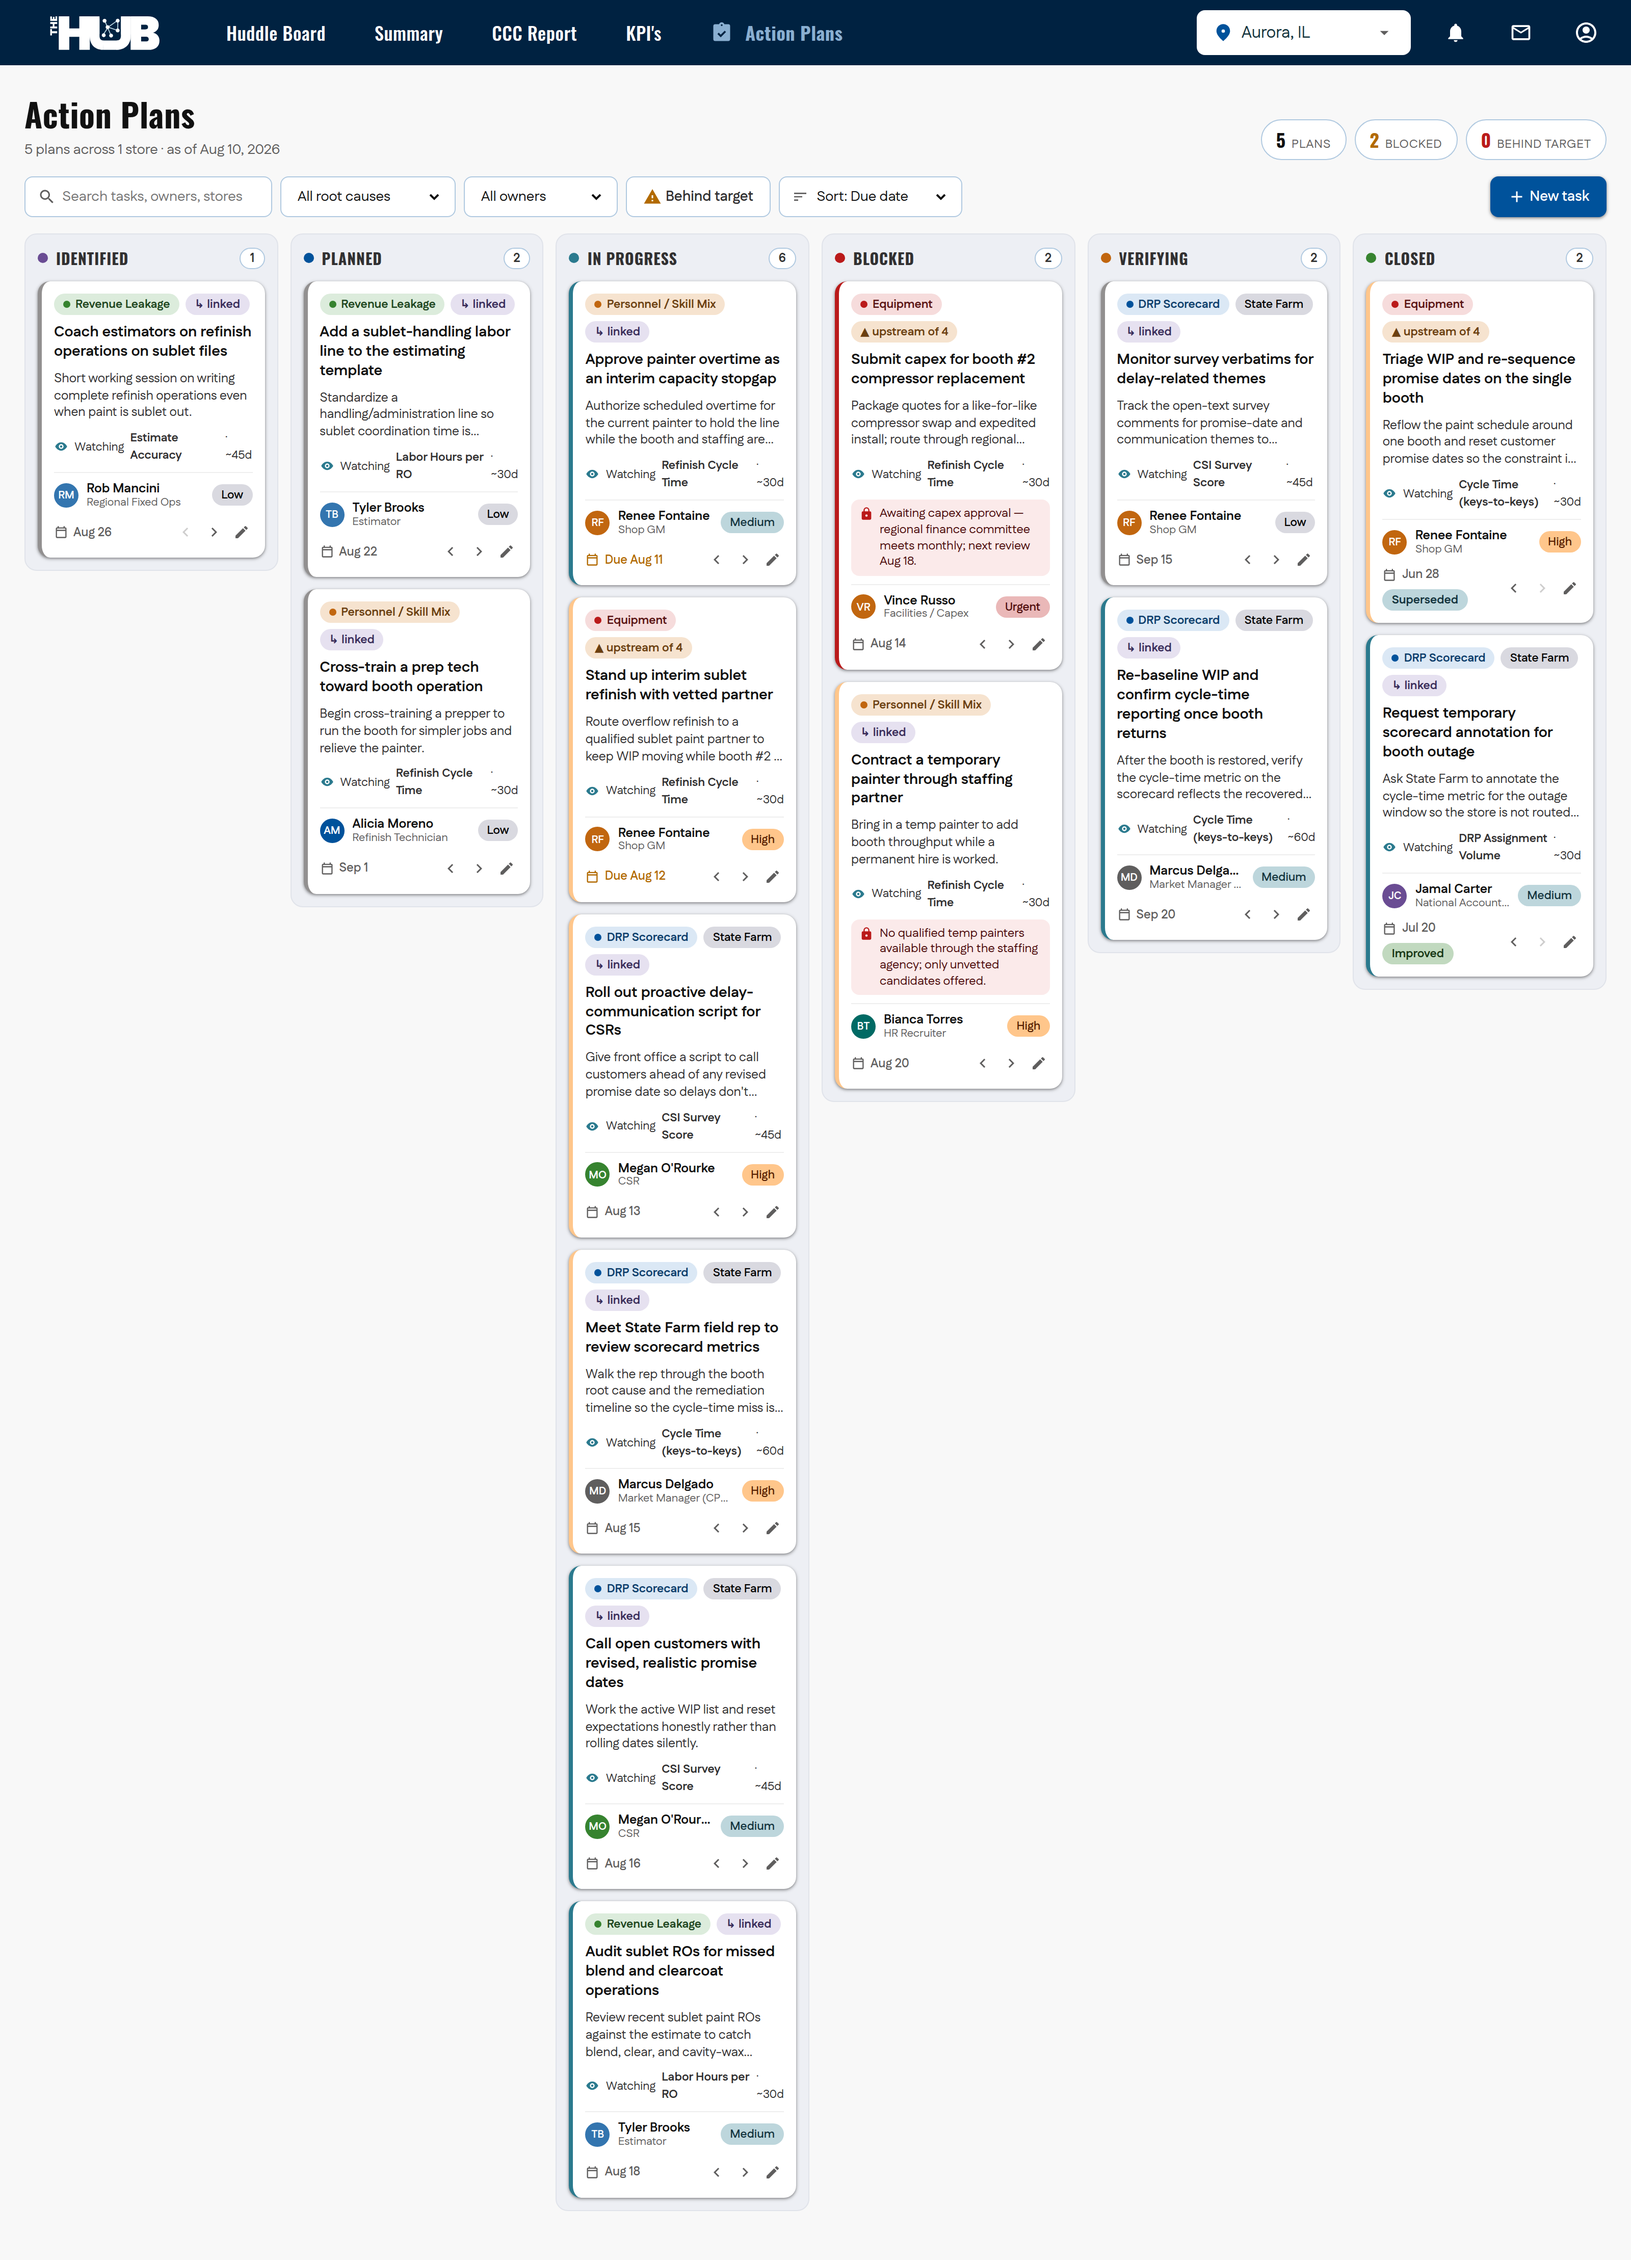
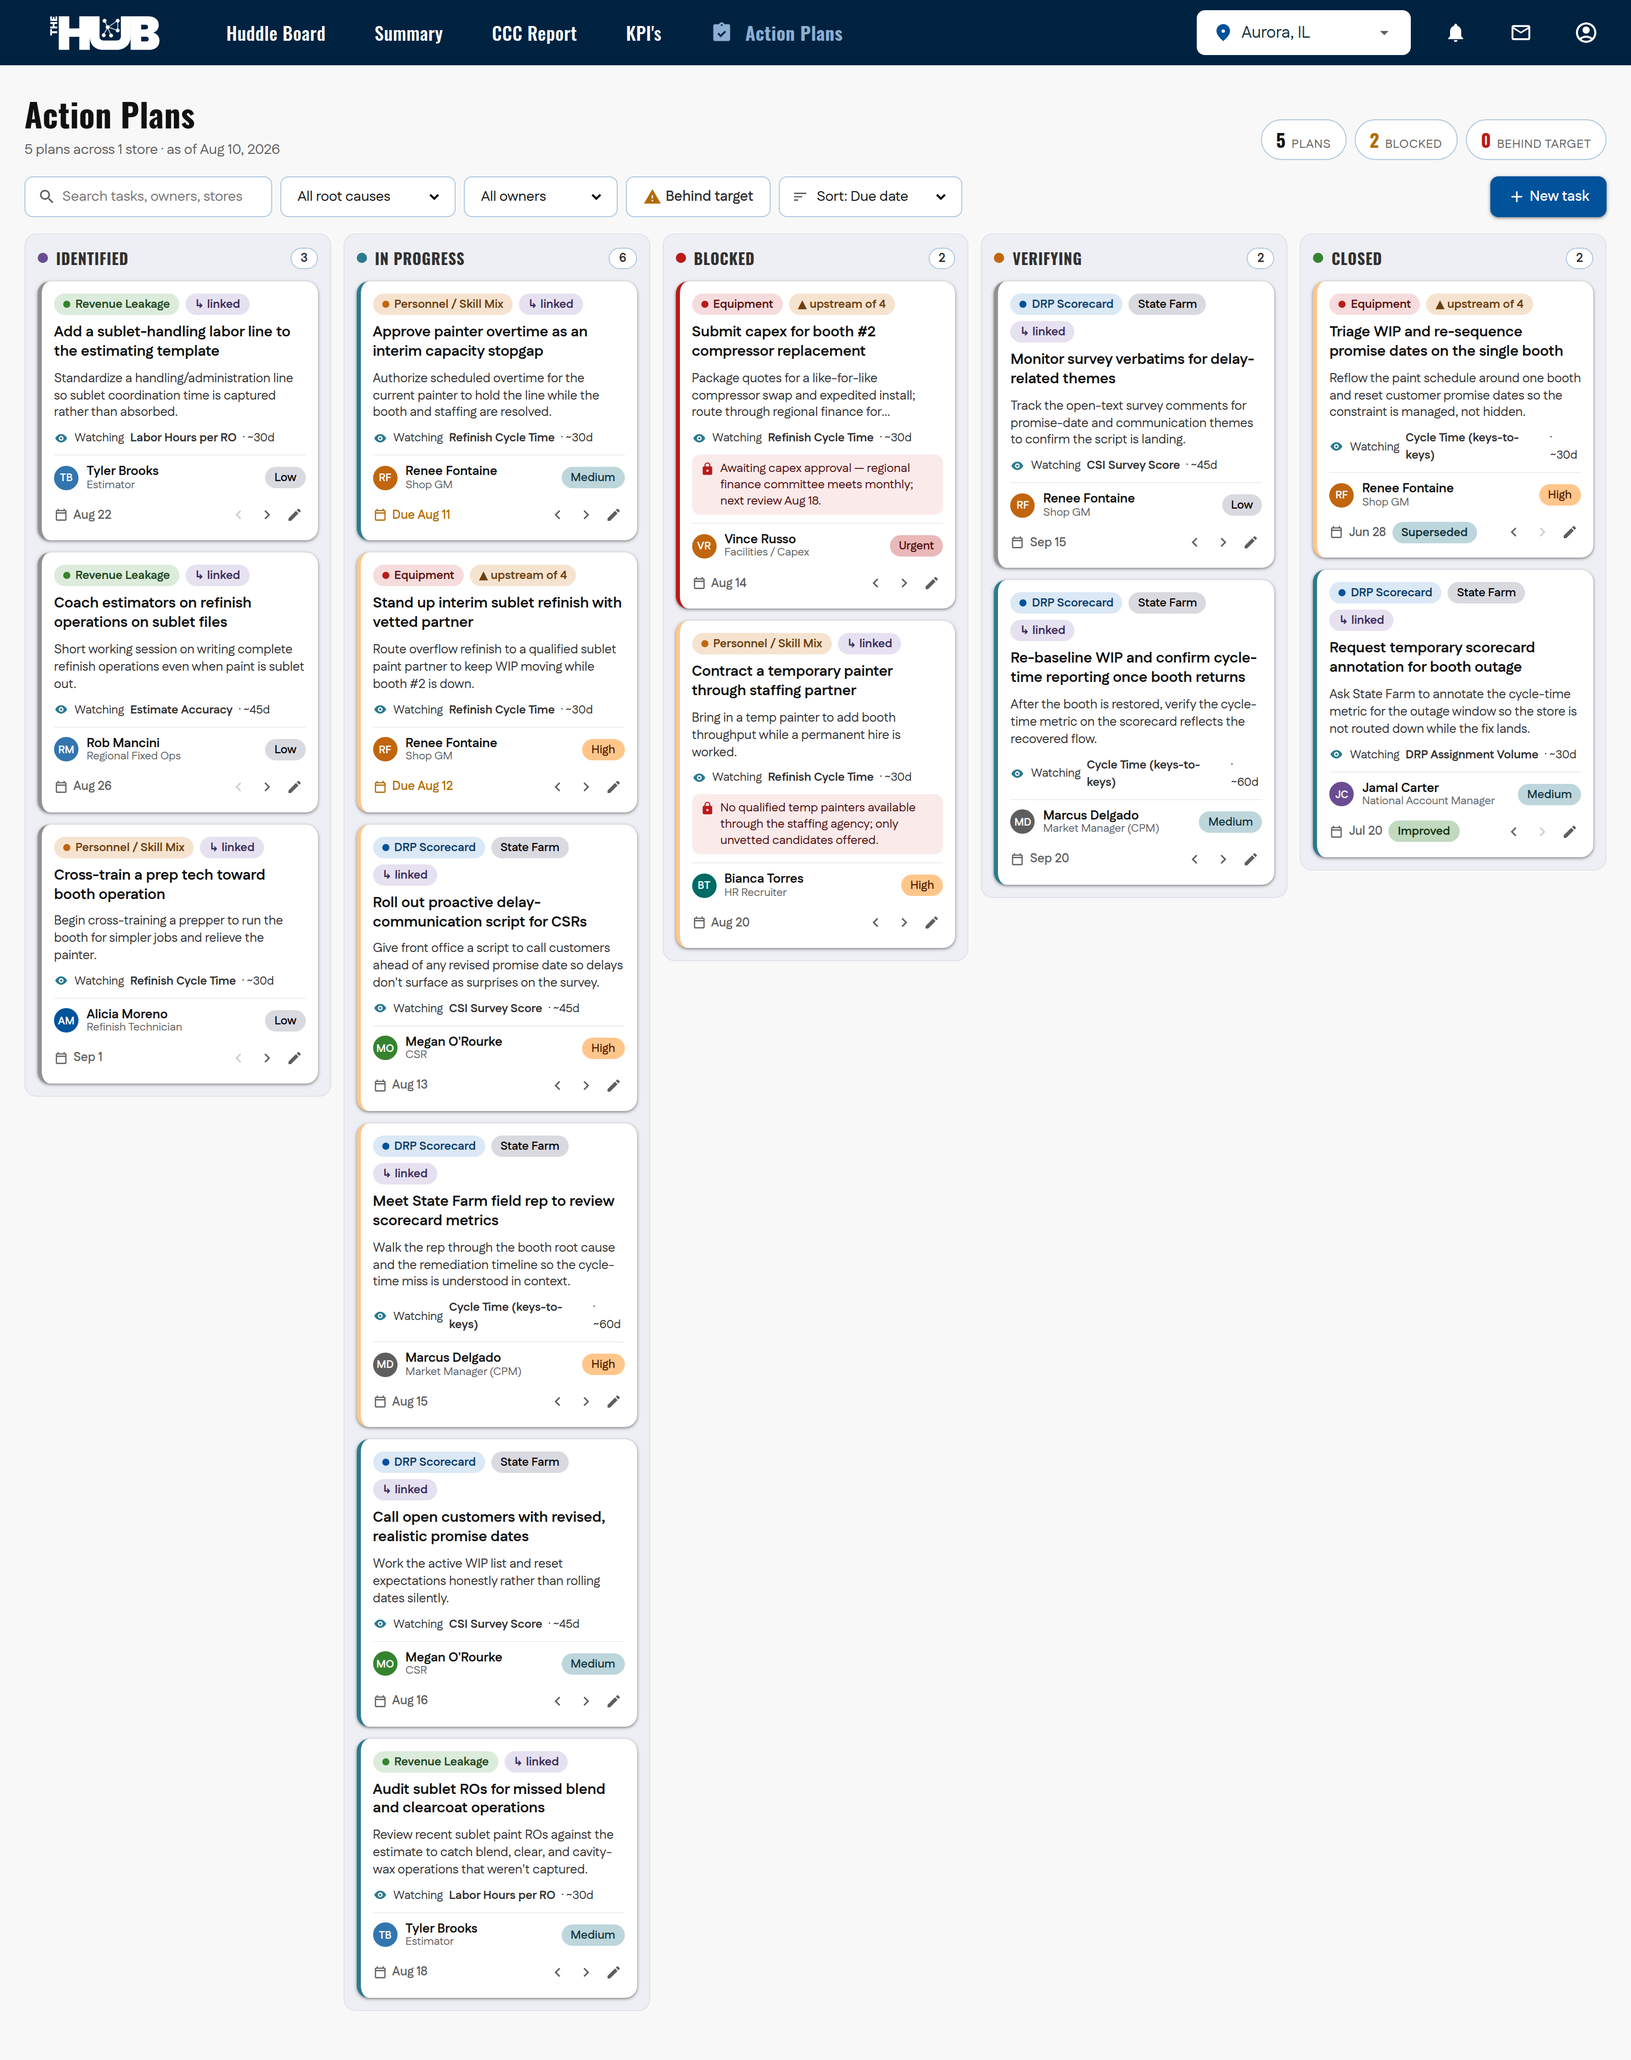
Collapse Planned into Identified (five-stage board)
Merge the Planned column into Identified: remove it from the board columns,
fold planned task statuses into identified (in data.js and defensively at
load), widen the board grid to five columns, and update the modal status
options and README stage list accordingly.

Claude-Session: https://claude.ai/code/session_013BSpAv4JN11AdbKWqu4hxe

diff --git a/assets/data.js b/assets/data.js
@@ -151,7 +151,7 @@ window.HUB_DATA = {
             { date: "2026-07-29", note: "Found blend and corrosion ops routinely omitted on sublet files." }
           ] },
         { id: "AP-204-t2", title: "Add a sublet-handling labor line to the estimating template", description: "Standardize a handling/administration line so sublet coordination time is captured rather than absorbed.",
-          ownerName: "Tyler Brooks", ownerRole: "Estimator", column: "planned", createdDate: "2026-07-03", dueDate: "2026-08-22", priority: "low",
+          ownerName: "Tyler Brooks", ownerRole: "Estimator", column: "identified", createdDate: "2026-07-03", dueDate: "2026-08-22", priority: "low",
           risk: "Must stay within carrier rules on allowable sublet handling.",
           verificationSignal: { metric: "Labor Hours per RO", lagDays: 30 },
           activityLog: [
@@ -189,7 +189,7 @@ window.HUB_DATA = {
             { date: "2026-07-31", note: "Agency came back empty on vetted painters; widening radius." }
           ] },
         { id: "AP-205-t3", title: "Cross-train a prep tech toward booth operation", description: "Begin cross-training a prepper to run the booth for simpler jobs and relieve the painter.",
-          ownerName: "Alicia Moreno", ownerRole: "Refinish Technician", column: "planned", createdDate: "2026-07-08", dueDate: "2026-09-01", priority: "low",
+          ownerName: "Alicia Moreno", ownerRole: "Refinish Technician", column: "identified", createdDate: "2026-07-08", dueDate: "2026-09-01", priority: "low",
           risk: "Cross-training pulls the prepper off the line short term.",
           verificationSignal: { metric: "Refinish Cycle Time", lagDays: 30 },
           activityLog: [
@@ -214,7 +214,7 @@ window.HUB_DATA = {
             { date: "2026-06-15", note: "Carrier acknowledged; queued for capacity review, no date." }
           ] },
         { id: "AP-101-t2", title: "Compile store capability packet for the carrier", description: "Assemble certifications, equipment list, capacity, and CBSA coverage into a packet supporting the add request.",
-          ownerName: "Dan Kowalski", ownerRole: "Shop GM", column: "planned", createdDate: "2026-03-08", dueDate: "2026-08-20", priority: "low",
+          ownerName: "Dan Kowalski", ownerRole: "Shop GM", column: "identified", createdDate: "2026-03-08", dueDate: "2026-08-20", priority: "low",
           risk: "Packet goes stale if the review slips further.",
           verificationSignal: { metric: "DRP Assignment Volume", lagDays: 90 },
           activityLog: [
@@ -269,7 +269,7 @@ window.HUB_DATA = {
       diagnosis: "Supplement frequency is high on the Progressive scorecard because initial estimates are incomplete — the same estimating skill-mix gap as AP-104. Blueprinting discipline should pull it back.",
       tasks: [
         { id: "AP-103-t1", title: "Stand up full-teardown blueprinting SOP", description: "Require complete disassembly and blueprint before the estimate is finalized on all but the lightest hits.",
-          ownerName: "Doug Ferreira", ownerRole: "Shop GM", column: "planned", createdDate: "2026-05-22", dueDate: "2026-08-19", priority: "high",
+          ownerName: "Doug Ferreira", ownerRole: "Shop GM", column: "identified", createdDate: "2026-05-22", dueDate: "2026-08-19", priority: "high",
           risk: "Teardown adds a step that can pressure cycle time if not staffed.",
           verificationSignal: { metric: "Supplement Frequency", lagDays: 45 },
           activityLog: [
@@ -300,7 +300,7 @@ window.HUB_DATA = {
       diagnosis: "Severity & Cost Performance is out of tolerance on the USAA scorecard — the store is writing heavier than peers on comparable damage. Calibration to USAA severity guidance, not process failure.",
       tasks: [
         { id: "AP-105-t1", title: "RDO file review of high-severity USAA repair orders", description: "Sample recent high-severity USAA files to find where severity is running above peer norms.",
-          ownerName: "Priya Nair", ownerRole: "RDO", column: "planned", createdDate: "2026-04-17", dueDate: "2026-08-18", priority: "medium",
+          ownerName: "Priya Nair", ownerRole: "RDO", column: "identified", createdDate: "2026-04-17", dueDate: "2026-08-18", priority: "medium",
           risk: "Small file sample can mislead; needs enough volume to be fair.",
           verificationSignal: { metric: "Severity & Cost Performance", lagDays: 60 },
           activityLog: [
@@ -405,7 +405,7 @@ window.HUB_DATA = {
             { date: "2026-07-15", note: "Refinish role complete; body role short a few hours." }
           ] },
         { id: "AP-109-t2", title: "Submit Gold Class recertification package", description: "File the recertification once role hours are complete to restore the credential.",
-          ownerName: "Theo Nakamura", ownerRole: "Shop GM", column: "planned", createdDate: "2026-05-05", dueDate: "2026-08-20", priority: "high",
+          ownerName: "Theo Nakamura", ownerRole: "Shop GM", column: "identified", createdDate: "2026-05-05", dueDate: "2026-08-20", priority: "high",
           risk: "Submission blocked until the last role hours are logged.",
           verificationSignal: { metric: "Certification Status", lagDays: 15 },
           activityLog: [
@@ -445,7 +445,7 @@ window.HUB_DATA = {
             { date: "2026-07-10", note: "Handful of applicants, none qualified yet; expanding sourcing." }
           ] },
         { id: "AP-110-t3", title: "Hold retention conversations with remaining technicians", description: "Meet 1:1 with the remaining techs to protect against further attrition under the added load.",
-          ownerName: "Doug Ferreira", ownerRole: "Shop GM", column: "planned", createdDate: "2026-05-20", dueDate: "2026-08-16", priority: "medium",
+          ownerName: "Doug Ferreira", ownerRole: "Shop GM", column: "identified", createdDate: "2026-05-20", dueDate: "2026-08-16", priority: "medium",
           risk: "Added workload itself is a flight risk if it drags on.",
           verificationSignal: { metric: "Cycle Time (keys-to-keys)", lagDays: 45 },
           activityLog: [
@@ -470,7 +470,7 @@ window.HUB_DATA = {
             { date: "2026-07-15", note: "Chasing a reman ram to beat the OEM lead time." }
           ] },
         { id: "AP-111-t2", title: "Submit capex for a replacement frame bench", description: "Prepare a capex option for a replacement bench in case the repair lead time is unacceptable.",
-          ownerName: "Priya Nair", ownerRole: "RDO", column: "planned", createdDate: "2026-06-14", dueDate: "2026-08-22", priority: "high",
+          ownerName: "Priya Nair", ownerRole: "RDO", column: "identified", createdDate: "2026-06-14", dueDate: "2026-08-22", priority: "high",
           risk: "Replacement is a large capex versus a cheaper repair.",
           verificationSignal: { metric: "Cycle Time (keys-to-keys)", lagDays: 45 },
           activityLog: [
@@ -531,7 +531,7 @@ window.HUB_DATA = {
             { date: "2026-07-03", note: "Draft op checklist assembled from carrier rule sets." }
           ] },
         { id: "AP-113-t2", title: "Audit a sample of ROs for omitted included operations", description: "Review a sample of closed ROs to quantify which included operations are being missed.",
-          ownerName: "Doug Ferreira", ownerRole: "Shop GM", column: "planned", createdDate: "2026-07-05", dueDate: "2026-08-27", priority: "medium",
+          ownerName: "Doug Ferreira", ownerRole: "Shop GM", column: "identified", createdDate: "2026-07-05", dueDate: "2026-08-27", priority: "medium",
           risk: "Findings need to feed coaching or the leak continues.",
           verificationSignal: { metric: "Rules Adherence Score", lagDays: 30 },
           activityLog: [
@@ -632,7 +632,7 @@ window.HUB_DATA = {
             { date: "2026-07-31", note: "Chasing remaining sign-offs to clear the list." }
           ] },
         { id: "AP-116-t3", title: "Confirm routing recovery with Nationwide rep", description: "Verify with the rep that routing normalizes after the portal cleanup.",
-          ownerName: "Marcus Delgado", ownerRole: "Market Manager (CPM)", column: "planned", createdDate: "2026-07-18", dueDate: "2026-08-22", priority: "medium",
+          ownerName: "Marcus Delgado", ownerRole: "Market Manager (CPM)", column: "identified", createdDate: "2026-07-18", dueDate: "2026-08-22", priority: "medium",
           risk: "Routing may take a cycle to reflect the cleanup.",
           verificationSignal: { metric: "DRP Assignment Volume", lagDays: 30 },
           activityLog: [
@@ -662,7 +662,7 @@ window.HUB_DATA = {
             { date: "2026-07-20", note: "First coaching session held against recent Farmers files." }
           ] },
         { id: "AP-117-t3", title: "Add a weekly rules-adherence audit on Farmers files", description: "Sample Farmers files weekly to confirm parts and operations are being captured to rule.",
-          ownerName: "Marcus Delgado", ownerRole: "Market Manager (CPM)", column: "planned", createdDate: "2026-07-22", dueDate: "2026-08-29", priority: "low",
+          ownerName: "Marcus Delgado", ownerRole: "Market Manager (CPM)", column: "identified", createdDate: "2026-07-22", dueDate: "2026-08-29", priority: "low",
           risk: "Audit only helps if findings loop back to coaching.",
           verificationSignal: { metric: "Rules Adherence Score", lagDays: 45 },
           activityLog: [

diff --git a/assets/app.js b/assets/app.js
@@ -12,12 +12,13 @@
 
   var COLUMNS = [
     { key: 'identified', label: 'Identified',  accent: '#6a4c93' },
-    { key: 'planned',    label: 'Planned',     accent: '#00529b' },
     { key: 'inprogress', label: 'In Progress', accent: '#2b7a8e' },
     { key: 'blocked',    label: 'Blocked',     accent: '#ba1a1a' },
     { key: 'verifying',  label: 'Verifying',   accent: '#c1660f' },
     { key: 'closed',     label: 'Closed',      accent: '#36832f' }
   ];
+  // 'planned' was merged into 'identified'
+  function normColumn(c) { return c === 'planned' ? 'identified' : c; }
 
   var PRIORITIES = [
     { key: 'urgent', label: 'Urgent', chip: 'chip-red' },
@@ -49,6 +50,7 @@
       var item = shallow(t);
       item.planId = p.id;
       item.storeId = p.storeId;
+      item.column = normColumn(item.column);
       tasks.push(item);
     });
   });

diff --git a/assets/styles.css b/assets/styles.css
@@ -349,7 +349,7 @@ button { font-family: inherit; }
    ------------------------------------------------------------ */
 .board {
   display: grid;
-  grid-template-columns: repeat(6, minmax(248px, 1fr));
+  grid-template-columns: repeat(5, minmax(248px, 1fr));
   gap: var(--sp4);
   align-items: start;
   overflow-x: auto;

diff --git a/README.md b/README.md
@@ -24,11 +24,12 @@ which drives all aging / overdue / behind-target logic.
 
 ## What it models
 
-**Six-stage Kanban** — a task moves left to right and does *not* jump straight to
+**Five-stage Kanban** — a task moves left to right and does *not* jump straight to
 Closed. `Verifying` is deliberate: most remediations lag 30–90 days before the
-signal shows up.
+signal shows up. (`Identified` holds both freshly diagnosed items and planned,
+not-yet-started work.)
 
-`Identified → Planned → In Progress → Blocked → Verifying → Closed`
+`Identified → In Progress → Blocked → Verifying → Closed`
 
 **Root-cause taxonomy** (every card is tagged with one):
 DRP Scorecard · DRP Participation · Personnel / Skill Mix · Equipment ·
